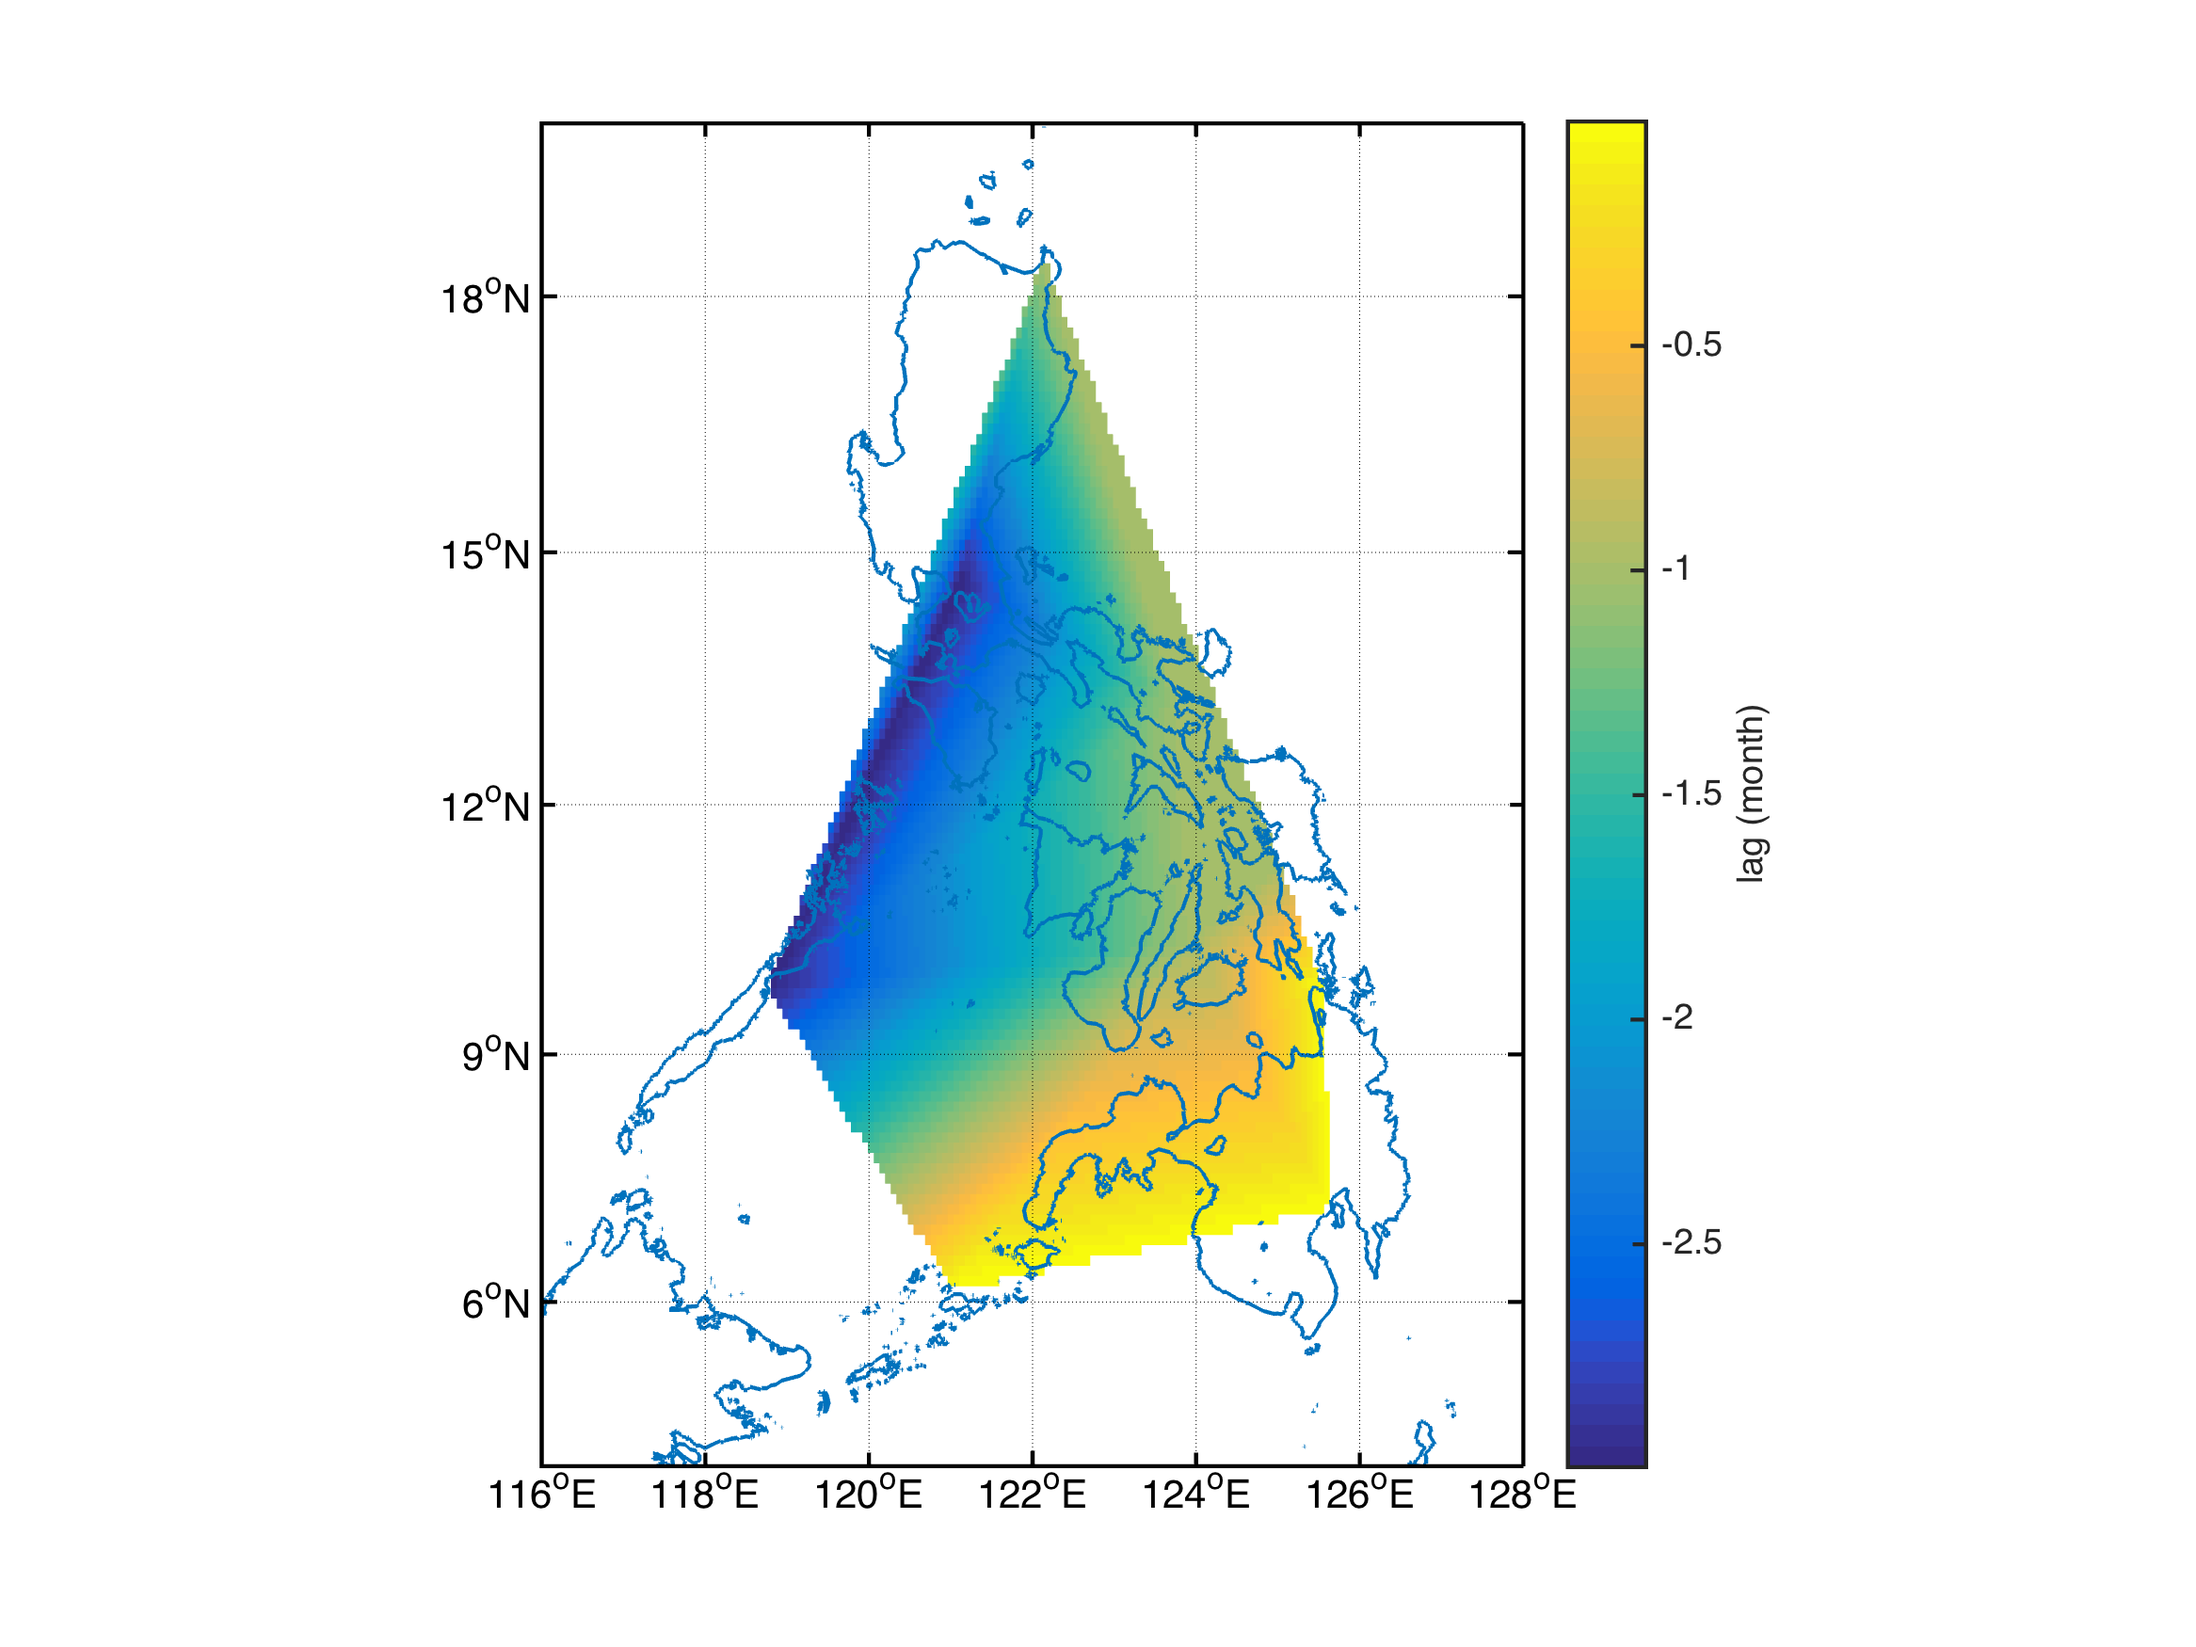
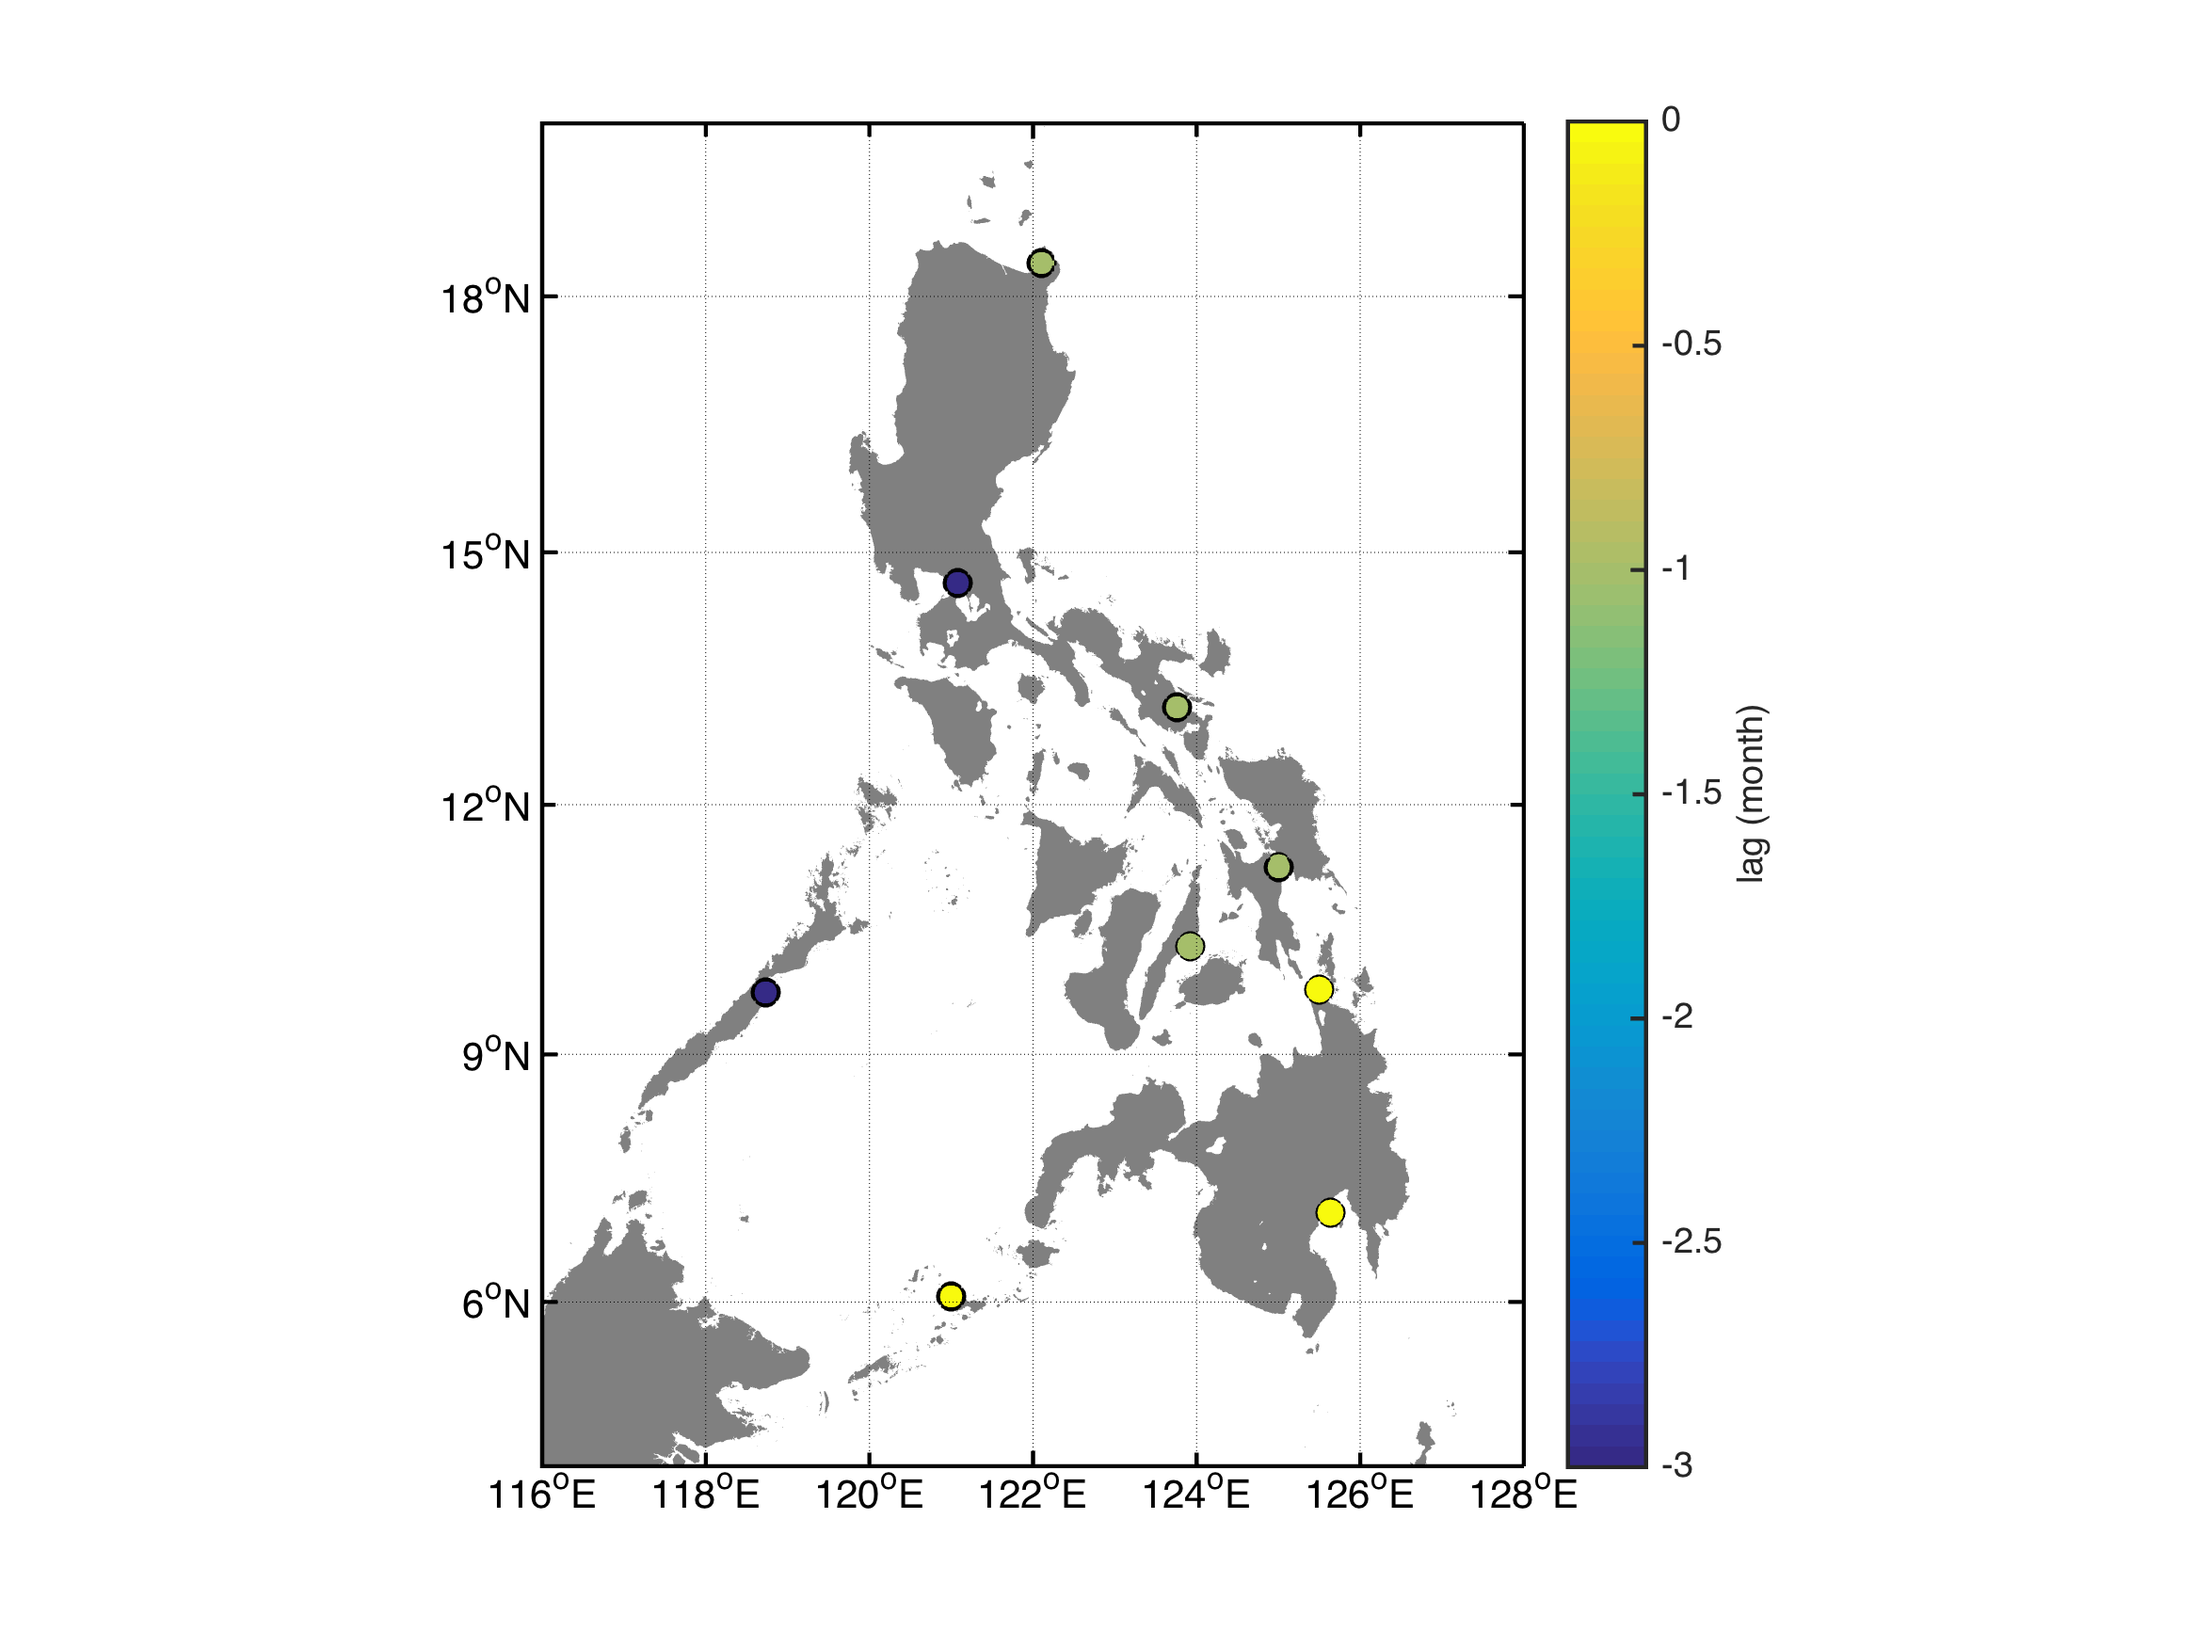
revised figure

diff --git a/start_here_monthly.m b/start_here_monthly.m
@@ -237,7 +237,8 @@ h1=figure();
 xlims=[116 128];    % longitude limits (deg E)
 ylims=[4 20];       % latitude limits (deg N)
 m_proj('mercator','lon',xlims,'lat',ylims); % map projection
-m_gshhs_i()         % Generate coastline
+%m_gshhs_i()         % Generate coastline
+m_gshhs_f('patch',[.5 .5 .5],'edgecolor','none')
 m_grid
 hold on
 
@@ -249,13 +250,14 @@ x = soireg(selectrows,1);
 y = soireg(selectrows,2);
 z = soireg(selectrows,3);
 
-[xi, yi] = meshgrid(...
-    linspace(min(x),max(x)),...
-    linspace(min(y),max(y)));
-
-zi = griddata(x,y,z, xi,yi);
+% [xi, yi] = meshgrid(...
+%     linspace(min(x),max(x)),...
+%     linspace(min(y),max(y)));
+% zi = griddata(x,y,z, xi,yi);
 %m_contourf(xi,yi,zi)
-m_pcolor(xi,yi,zi); shading flat; colorbar
+% m_pcolor(xi,yi,zi); shading flat; colorbar
+points = m_scatter(x,y,45,z,'filled','MarkerEdgeColor',[0 0 0])
+colormap parula
 h = colorbar; ylabel(h,'lag (month)')
 
 % Save figure to file dialog box
@@ -367,7 +369,8 @@ end
 % % % xlims=[116 128];    % longitude limits (deg E)
 % % % ylims=[4 20];       % latitude limits (deg N)
 % % % m_proj('mercator','lon',xlims,'lat',ylims); % map projection
-% % % m_gshhs_i()         % Generate coastline
+% % % % m_gshhs_i()         % Generate coastline
+% % % m_gshhs_f('patch',[.5 .5 .5],'edgecolor','none')
 % % % m_grid
 % % % hold on
 % % % 
@@ -379,15 +382,18 @@ end
 % % % y = pdoreg(selectrows,2);
 % % % z = pdoreg(selectrows,3);
 % % % 
-% % % [xi, yi] = meshgrid(...
-% % %     linspace(min(x),max(x)),...
-% % %     linspace(min(y),max(y)));
-% % % 
-% % % zi = griddata(x,y,z, xi,yi);
-% % % %m_contourf(xi,yi,zi)
-% % % m_pcolor(xi,yi,zi); shading flat; colorbar
+% % % % [xi, yi] = meshgrid(...
+% % % %     linspace(min(x),max(x)),...
+% % % %     linspace(min(y),max(y)));
 % % % % 
-% % % % % Save figure to file dialog box
+% % % % zi = griddata(x,y,z, xi,yi);
+% % % %m_contourf(xi,yi,zi)
+% % % % m_pcolor(xi,yi,zi); shading flat; colorbar
+% % % points = m_scatter(x,y,45,z,'filled','MarkerEdgeColor',[0 0 0])
+% % % colormap parula
+% % % h = colorbar; ylabel(h,'lag (month)')
+% % % % 
+% % % % % Save figure to file dialog boxs
 % % % % display(sprintf('Saving figure to file...'))
 % % % % [filename,pathname]=uiputfile('*.png','Save map of stations as (*.png)');
 % % % % saveas(h1,[pathname filename]);

diff --git a/start_here_hourly.m b/start_here_hourly.m
@@ -158,10 +158,11 @@ z = tidemat(selectrows,3);
 % zi = griddata(x,y,z, xi,yi);
 % m_contourf(xi,yi,zi)
 % m_pcolor(xi,yi,zi); shading flat; colorbar
-points = m_scatter(x,y,45,z,'filled')
+points = m_scatter(x,y,45,z,'filled','MarkerEdgeColor',[0 0 0])
 colormap parula
 h = colorbar; ylabel(h,'(M_2+S_2) / (O_1+K_1)')
 
+%%
 % Save figure to file dialog box
 display(sprintf('Saving figure to file...'))
 [filename,pathname]=uiputfile('*.png','Save map of statiions as (*.png)');
